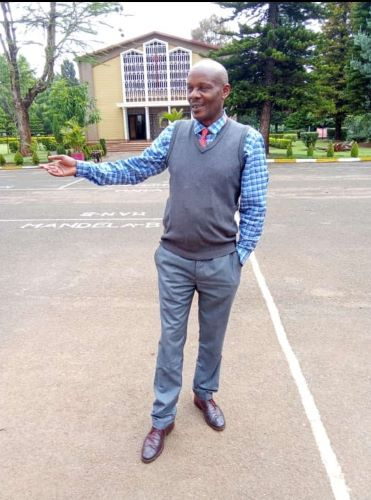
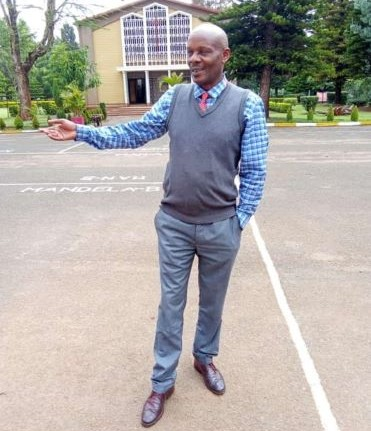
Add mission statement and vision statement to the website, and update the teacher's image.

diff --git a/css/main.css b/css/main.css
@@ -21,6 +21,7 @@
   --color-border: rgba(30, 144, 255, 0.22);
   --shadow-sm: 0 1px 3px rgba(13, 27, 58, 0.08);
   --shadow-md: 0 24px rgba(13, 27, 58, 0.1);
+  --highlight: rgba(21, 42, 82, 0.25);
 
   --header-height: 3rem;
   --sidebar-width: 16.5rem;
@@ -35,6 +36,10 @@
 
   --font-sans: "Source Sans 3", system-ui, -apple-system, sans-serif;
   --font-serif: "Source Serif 4", Georgia, serif;
+
+  --title-lg: 1.75rem;
+  --title-md: 1.5rem;
+  --title-sm: 1.2rem;
 }
 
 html {
@@ -412,11 +417,6 @@ body {
   background: rgba(21, 42, 82, 1);
 }
 
-.date {
-  color: var(--color-navy);
-  margin-top: 2rem;
-}
-
 /* Main */
 .main-content-wrapper {
   grid-area: content;
@@ -437,18 +437,18 @@ body {
 }
 
 .welcome-container {
-  background: var(--color-surface-alt);
+  background: var(--color-surface);
 }
 
-.page-title {
+.section-title {
   font-family: var(--font-serif);
   color: var(--color-navy);
-  font-size: 1.75rem;
+  font-size: var(--title-lg);
   font-weight: 700;
   margin-bottom: 1rem;
 }
 
-.page-title::after {
+.section-title::after {
   content: "";
   display: block;
   width: 50px;
@@ -481,7 +481,7 @@ body {
   grid-template-columns: minmax(200px, 250px) 1fr;
   gap: 1.5rem;
 
-  background: var(--color-surface);
+  background: var(--color-surface-alt);
 }
 
 .statement-img {
@@ -503,7 +503,7 @@ body {
 
 .statement-body .role {
   font-family: var(--font-serif);
-  font-size: 1.2rem;
+  font-size: var(--title-sm);
   color: var(--color-navy);
 }
 
@@ -523,6 +523,30 @@ body {
   font-size: 0.98rem;
   margin-bottom: 0.5rem;
   line-height: 1.6;
+}
+
+.deputy-statement {
+  grid-template-columns: 1fr minmax(200px, 250px);
+  gap: unset;
+}
+
+.deputy-statement .statement-body {
+  padding-left: initial;
+}
+
+/* mission/vision */
+.mission-container {
+  background: var(--color-dodger-deep);
+  padding: 1rem 2rem;
+}
+
+.mission-container .section-title {
+  font-size: var(--title-md);
+}
+
+.mission-container p {
+  /* padding-right: 1rem; */
+  text-align: justify;
 }
 
 .footer {
@@ -679,6 +703,9 @@ body {
   }
   .statement-img {
     order: 1;
+  }
+  .deputy-statement {
+    gap: 1.5rem;
   }
 }
 

diff --git a/index.html b/index.html
@@ -221,14 +221,13 @@
 					</li>
 				</ul>
 			</nav>
-			<div class="date"></div>
 		</aside>
 
 		<!-- The Main Content -->
 		<main class="main-content-wrapper" id="main">
 			<div class="container welcome-container">
 				<div class="welcome-msg">
-					<h1 class="page-title">Welcome</h1>
+					<h1 class="section-title">Welcome</h1>
 					<p>
 						Ngano Secondary School is a mixed day and boarding,
 						sub-country school located in Ngano, near Ngano
@@ -274,9 +273,54 @@
 							to become confident, responsible, and compassionate
 							individuals who contribute positively to society.
 						</p>
+					</blockquote>
+				</div>
+			</div>
+
+			<div class="container mission-container">
+				<div class="mission">
+					<h2 class="section-title">Our Mission</h2>
+					<p>
+						To foster a conducive environment for quality
+						teaching and learning to enable learners explore
+						their full potential through effective participation
+						in curricular and co-curricular activities.
+					</p>
+				</div>
+				<div class="vision">
+					<h2 class="section-title">Our Vision</h2>
+					<p>
+						To foster a conducive environment for quality
+						teaching and learning to enable learners explore
+						their full potential through effective participation
+						in curricular and co-curricular activities.
+					</p>
+				</div>
+			</div>
+
+			<div class="container statement-container deputy-statement">
+				<div class="statement-body">
+					<h3 class="role">From the Deputy Principal</h3>
+					<p class="name">Mr. Wang'ondu</p>
+					<blockquote class="quote">
+						<p>
+							Our commitment to discipline ensures that students
+							understand the importance of responsibility and
+							accountability in their academic journey.</p>
+						<p>
+							We believe that discipline is the bridge between
+							goals and accomplishment, and we strive to instill
+							this value in our students.
+						</p>
+						<p>
+							Motivation only gets you so far, but discipline is
+							what sustains success.
 						</p>
 					</blockquote>
 				</div>
+				<figure class="statement-img">
+					<img src="images/teachers/deputy.jpg" alt="Principal">
+				</figure>
 			</div>
 		</main>
 		<footer class="footer"></footer>

diff --git a/js/main.js b/js/main.js
@@ -1,6 +1,4 @@
 document.addEventListener("DOMContentLoaded", () => {
-  document.querySelector(".date").textContent = new Date().toDateString();
-
   const menuToggle = document.getElementById("menuToggle");
   const sidebar = document.getElementById("sideBar");
   const mobileOverlay = document.getElementById("mobileOverlay");